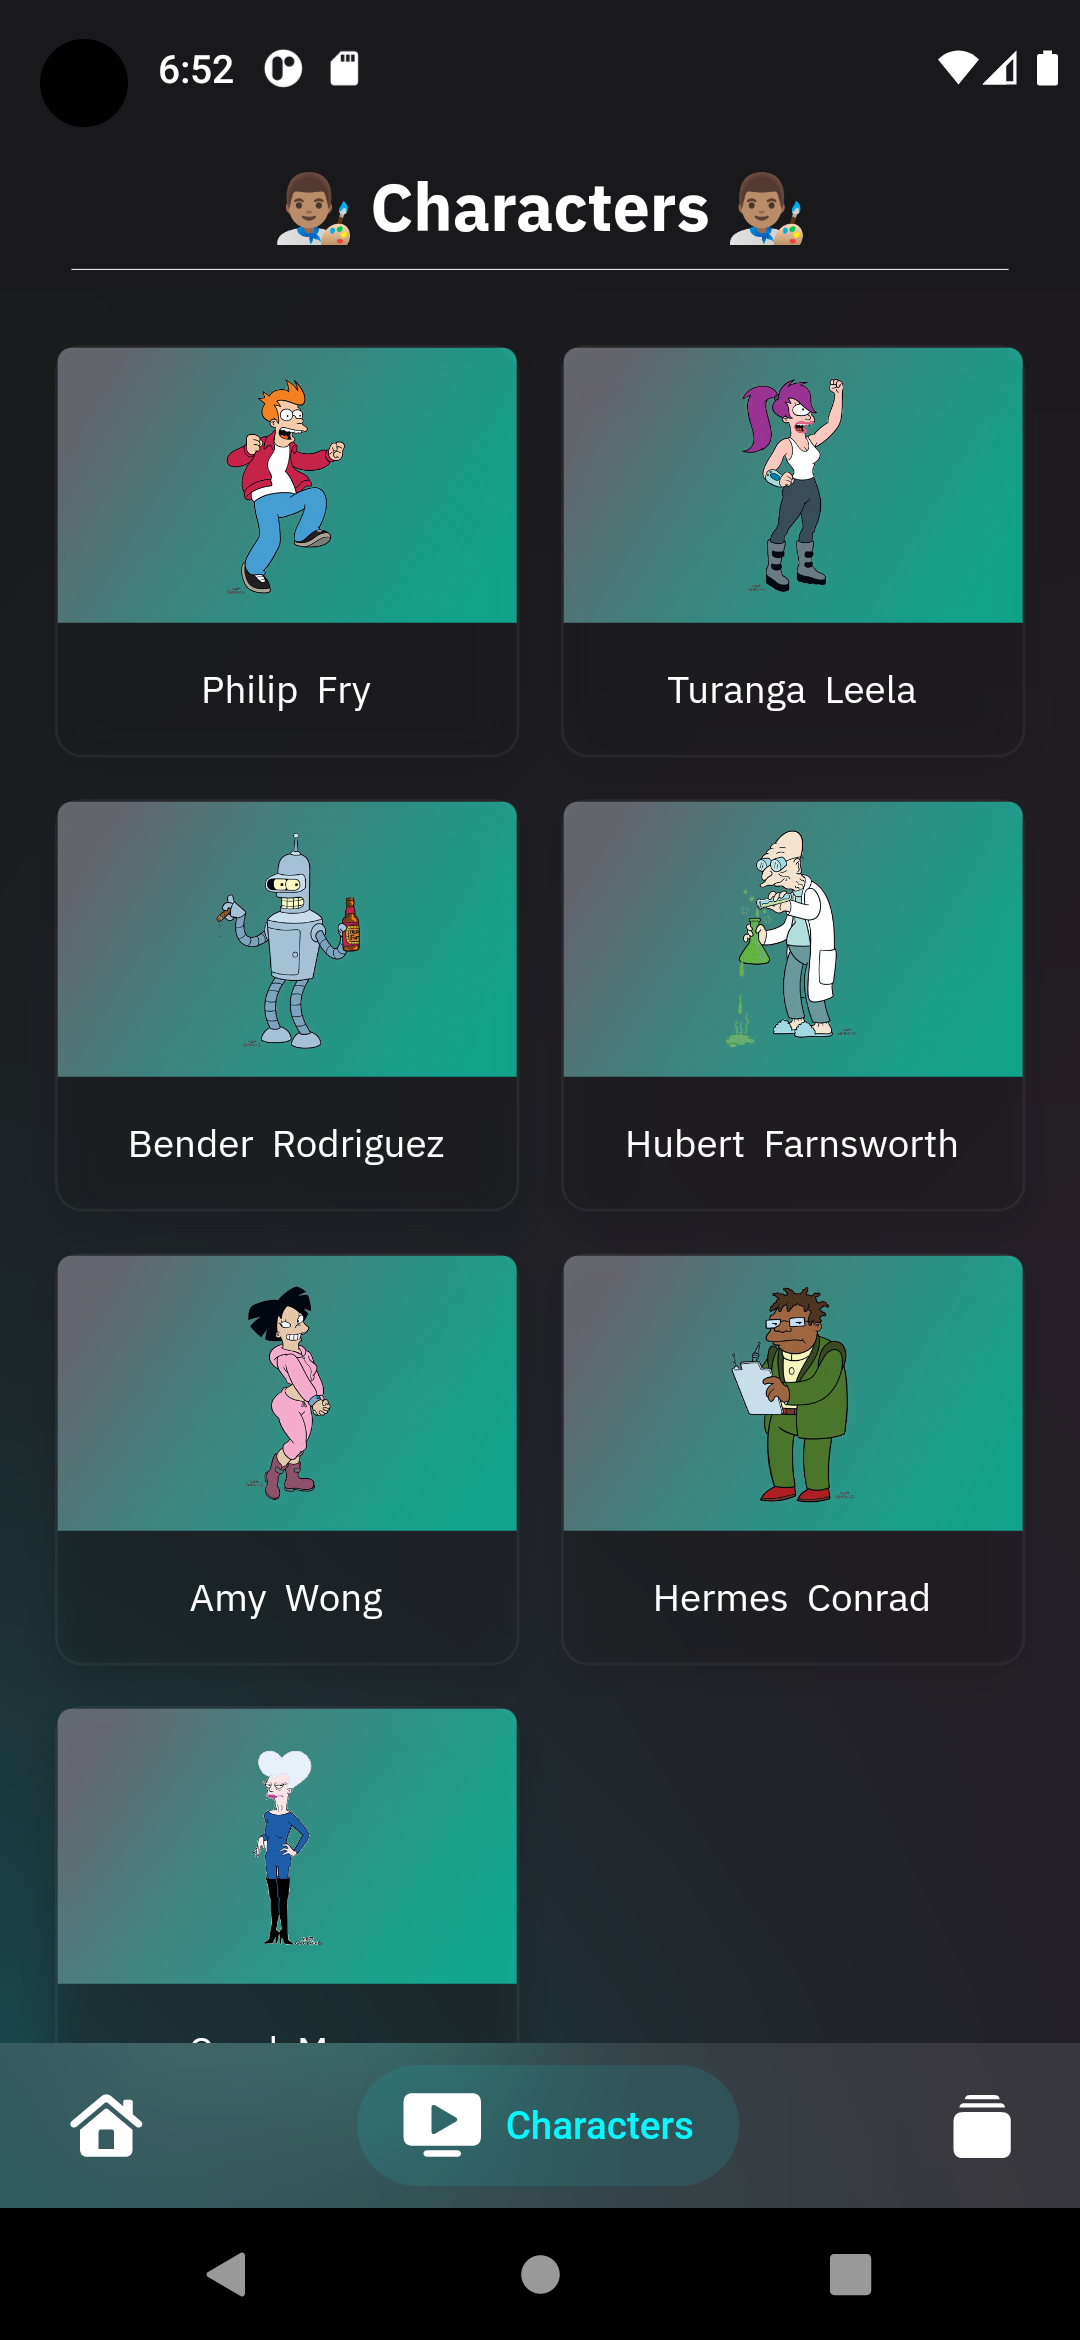
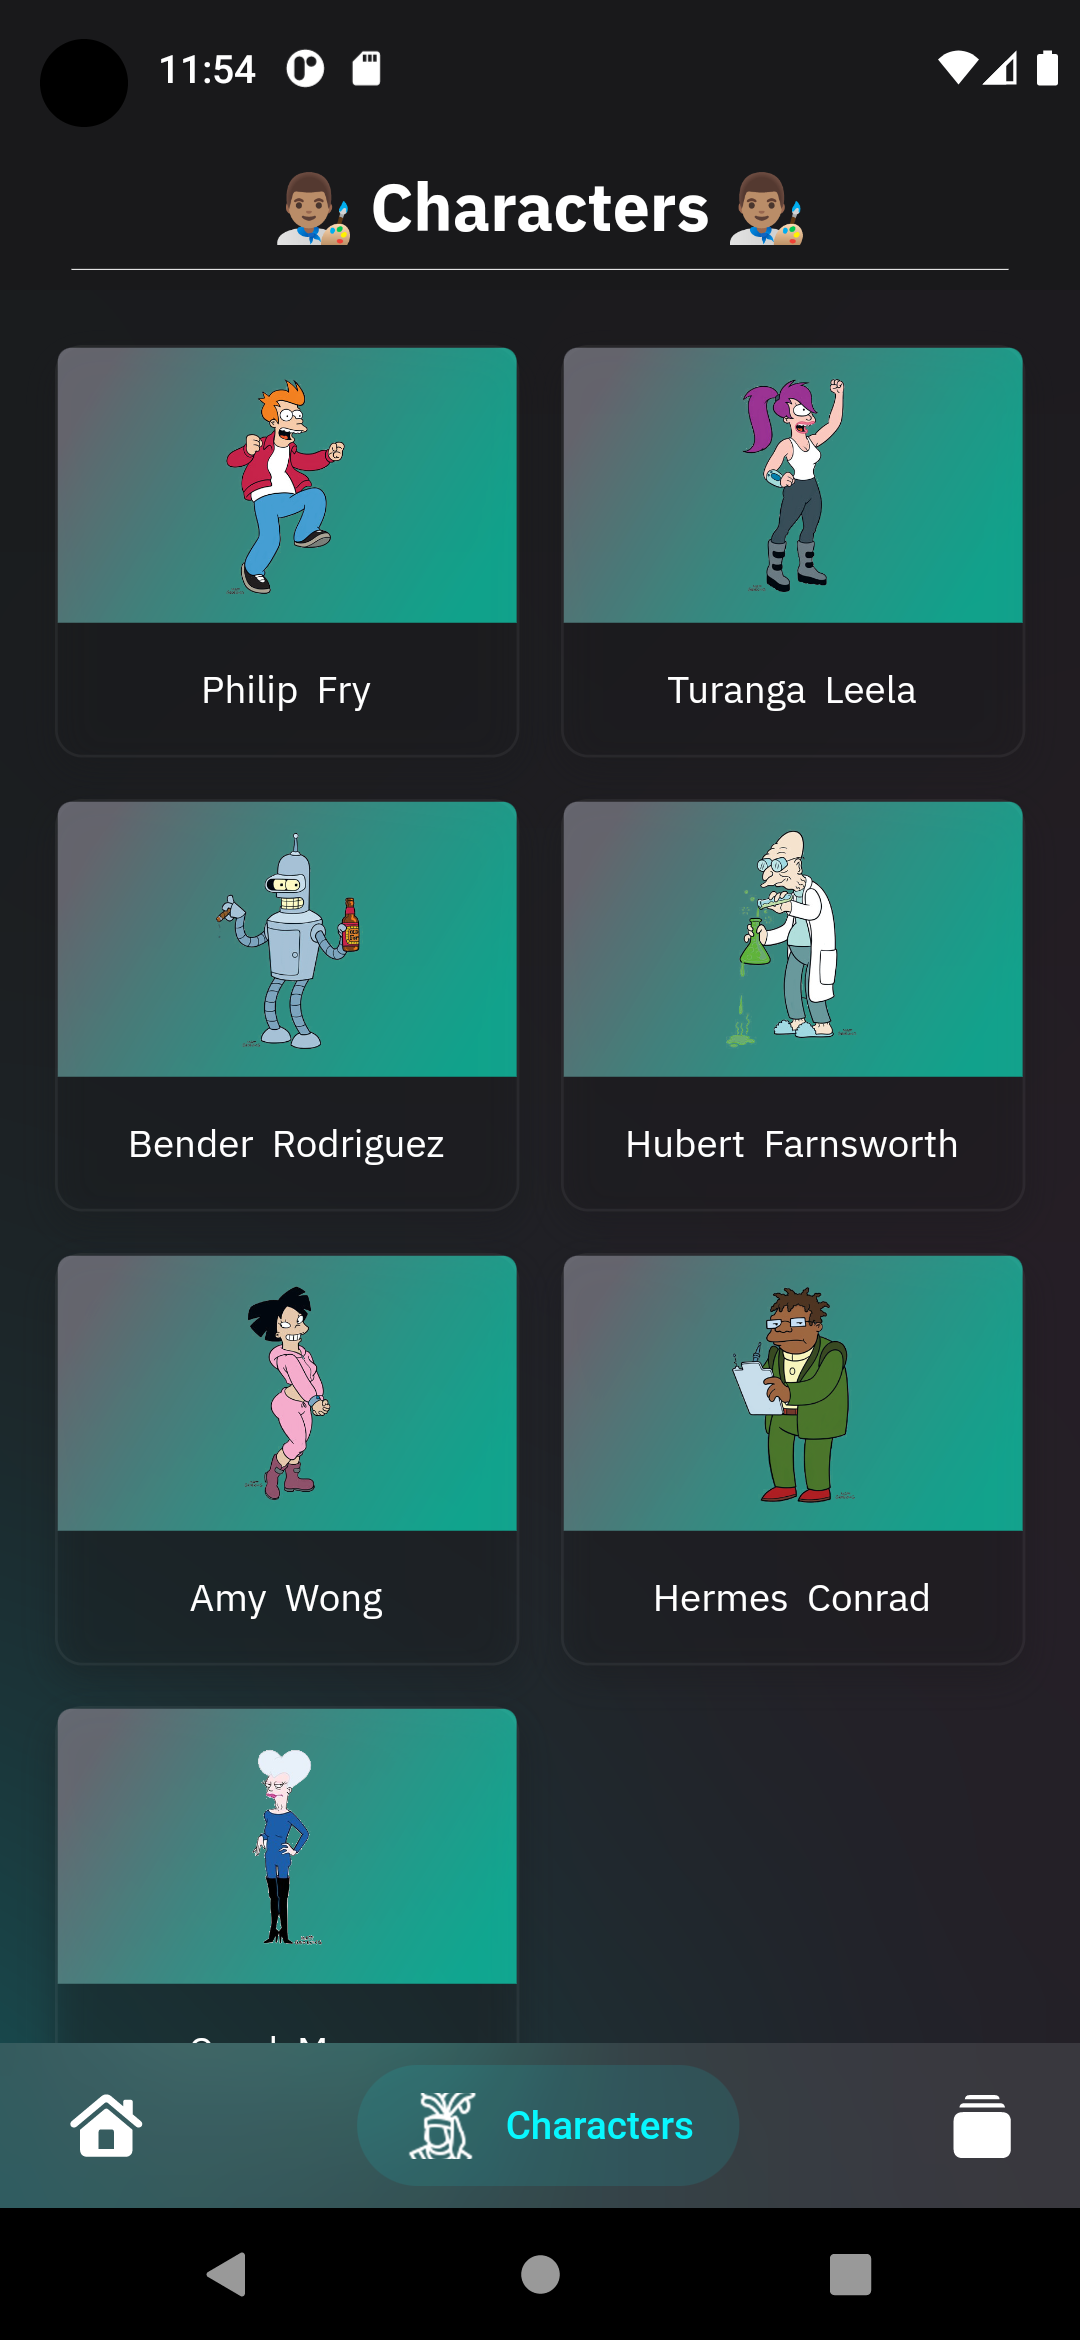
Update the tab bar

diff --git a/lib/futurama/widgets/quiz_tile.dart b/lib/futurama/widgets/quiz_tile.dart
@@ -2,7 +2,6 @@ import 'package:flutter/material.dart';
 import 'package:futurama/futurama/constants.dart';
 import 'package:futurama/futurama/models/quiz_model.dart';
 import 'package:futurama/futurama/providers/quiz_service.dart';
-import 'package:futurama/futurama/widgets/score_page.dart';
 import 'package:provider/provider.dart';
 
 import 'block_button_widget.dart';
@@ -29,34 +28,13 @@ class _QuizTileState extends State<QuizTile> {
   // List<int> totalScore = [];
   // int _numOfCorrectAns = 0;
   int? pageNo;
-  bool _isCorrect = false;
+  bool isCorrect = false;
 
   @override
   void initState() {
     super.initState();
     pageNo = widget.index + 1;
-    // _numOfCorrectAns;
-    // totalScore;
   }
-
-  // void checkAns(Quiz quiz, _selectedAns, checkedOptionPosition) {
-  //   setState(() {
-  //     // _isAnswered = true;
-  //     checkedOptionPosition;
-  //     _correctAns = widget.quiz.correctAnswer;
-  //     if (_correctAns == _selectedAns) {
-  //       _isCorrect = true;
-  //     }
-
-  //     print('_numOfCorrectAns $_numOfCorrectAns');
-  //     print('Tapped on: $checkedOptionPosition');
-  //     print('_isCorrect $_isCorrect');
-  //     print('_selectedAns $_selectedAns');
-  //     print('_correctAns $_correctAns');
-  //     //
-  //     // print(_correctAns == _selectedAns);
-  //   });
-  // }
 
   @override
   Widget build(BuildContext context) {
@@ -69,14 +47,9 @@ class _QuizTileState extends State<QuizTile> {
           screenHeader(),
           quizQuestion(),
           ...List.generate(widget.quiz.possibleAnswers.length, (index) {
-            // int checkedOptionPosition = widget.quiz.possibleAnswers
-            //     .indexOf(widget.quiz.possibleAnswers[index]);
-
             return Options(
               index: index,
-
               text: widget.quiz.possibleAnswers[index],
-
               isSelected: (bool value) {
                 setState(() {
                   if (value) {
@@ -85,13 +58,7 @@ class _QuizTileState extends State<QuizTile> {
                     selectedList.add(widget.quiz.possibleAnswers[index]);
                   }
                 });
-                print("$index : $value, : $selectedList");
               },
-              // isAnswered: _isAnswered,
-              // press: () {
-              //   checkAns(widget.quiz, widget.quiz.possibleAnswers[index],
-              //       checkedOptionPosition);
-              // }
             );
           }),
           const SizedBox(
@@ -136,7 +103,7 @@ class _QuizTileState extends State<QuizTile> {
                         context,
                         selectedList,
                         widget.quiz.correctAnswer,
-                        _isCorrect,
+                        isCorrect,
                         pageNo,
                         widget.total,
                         widget.pageController),

diff --git a/lib/tab_bar.dart b/lib/tab_bar.dart
@@ -74,9 +74,8 @@ class _TabBarPageState extends State<TabBarPage> {
               title: const Text('Home'),
             ),
             BottomBarItem(
-              icon: SvgPicture.asset(
-                Constants.kIconPlayOnTv,
-              ),
+              icon: Image.asset(Constants.kIconCartoon,
+                  color: Constants.kWhiteColor, width: 30, fit: BoxFit.cover),
               activeColor: Constants.kCyanColor,
               title: const Text('Characters'),
             ),

diff --git a/test/widget_test.dart b/test/widget_test.dart
@@ -1,10 +1,3 @@
-// This is a basic Flutter widget test.
-//
-// To perform an interaction with a widget in your test, use the WidgetTester
-// utility that Flutter provides. For example, you can send tap and scroll
-// gestures. You can also use WidgetTester to find child widgets in the widget
-// tree, read text, and verify that the values of widget properties are correct.
-
 import 'package:flutter/material.dart';
 import 'package:flutter_test/flutter_test.dart';
 

diff --git a/lib/futurama/constants.dart b/lib/futurama/constants.dart
@@ -21,6 +21,7 @@ class Constants {
   static const String kIconPlay = 'assets/svg/icon-play.svg';
   static const String kIconBack = 'assets/svg/icon-back.svg';
   static const String kIconMenu = 'assets/svg/icon-menu.svg';
+  static const String kIconCartoon = 'assets/svg/icon-char.png';
 
   // Constant Mask
   static const String kMaskFirstIndex = 'assets/mask/mask_firstIndex.png';
